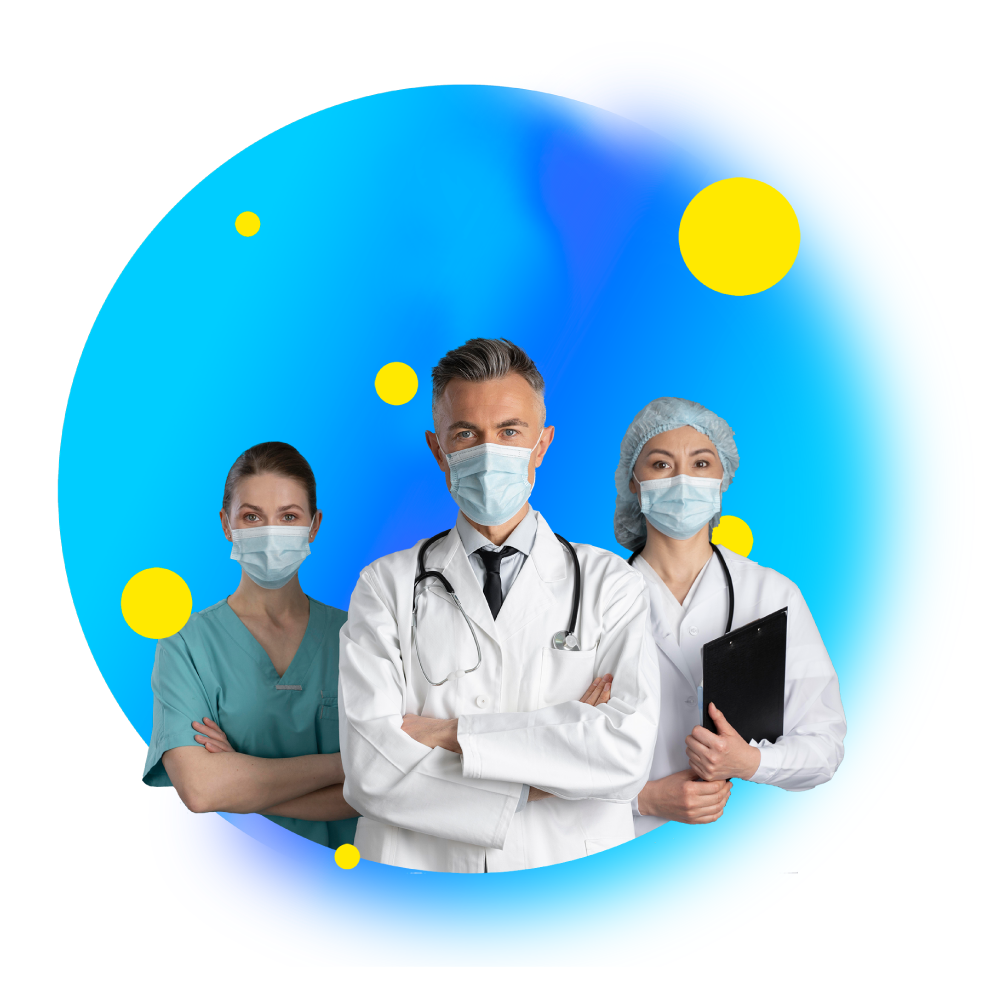
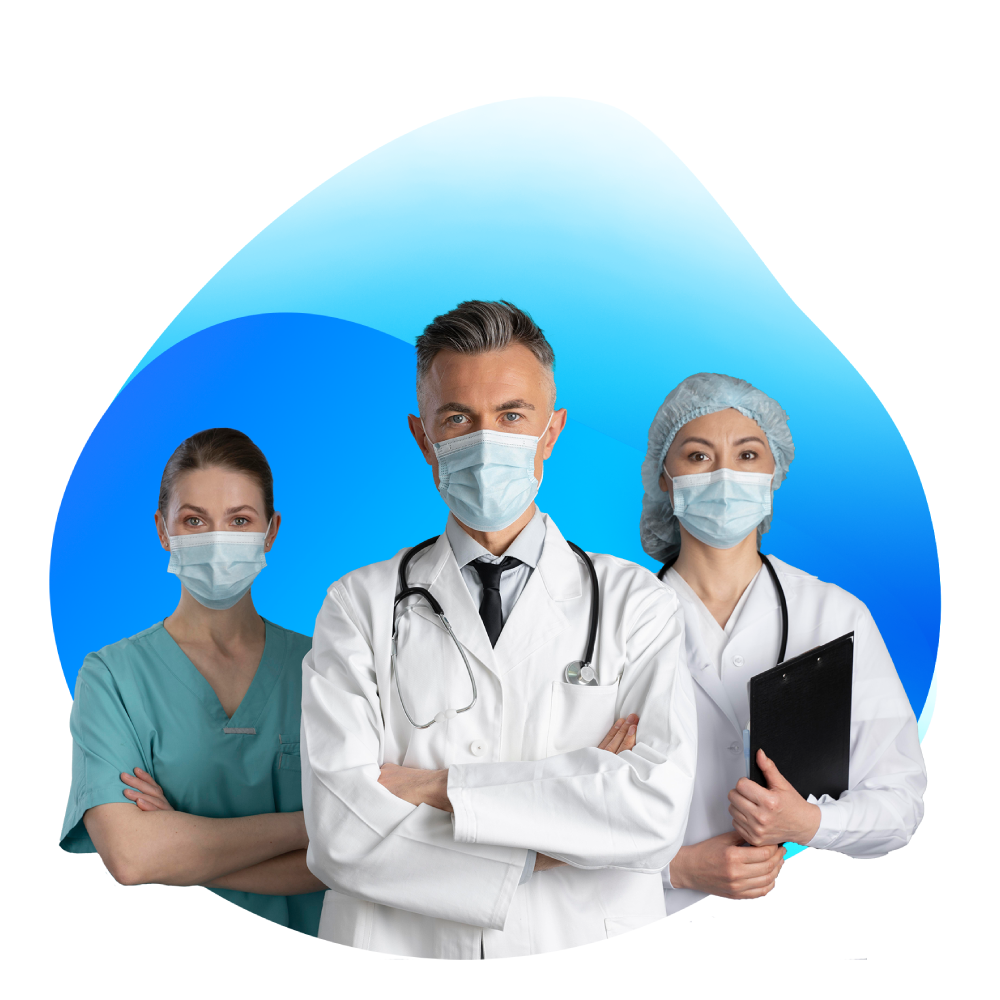
working en arreglar detalles esteticos

diff --git a/labuenafeweb/src/App.jsx b/labuenafeweb/src/App.jsx
@@ -11,6 +11,8 @@ import InsuranceSection from './components/InsuranceSection'
 import BlogSection from './components/BlogSection'
 import Services from './components/Services'
 import Contact from './components/Contact'
+import ImgSpacer from './components/ImgSpacer'
+import bgspacer from "./assets/img/bg-spacer-1.png"
 
 const posts = [
   {
@@ -40,15 +42,21 @@ function App() {
   
 
   return (
-    <div className='px-16 lg:px-40 bg-cyan-50'>
+    <div className=' '>
+      <div className="px-16 lg:px-40">
       <Navbar/>
       <HomeSection/>
-      <AboutSection/>
+      </div>
+      <div className="my-20"></div>
+   <ImgSpacer imageUrl={bgspacer} text="La Salud, Nuestro Deber" />
+      <div className="px-16 lg:px-40">
       <TeleHealth/>
+      <Services/>
       <InsuranceSection/>
       <BlogSection posts={posts}/>
-      <Services/>
+      <AboutSection/>
       <Contact/>
+      </div>
     </div>
   )
 }

diff --git a/labuenafeweb/src/components/ImgSpacer.jsx b/labuenafeweb/src/components/ImgSpacer.jsx
@@ -1,0 +1,20 @@
+import React from "react";
+
+const ImgSpacer = () => {
+  return (
+    // <section
+    //   className=" hidden md:block relative h-[500px] w-full bg-cover bg-center "
+    //   style={{ backgroundImage: `url(${imageUrl})` }}
+    // >
+    //   <div className="absolute bottom-4 left-1/2 transform -translate-x-1/2">
+       
+    //   </div>
+    // </section>
+    <div className=" w-screen h-96 ">
+        <svg className="w-screen h-auto object-cover" xmlns="http://www.w3.org/2000/svg" viewBox="0 0 1440 320"><path fill="#0062FF" fillOpacity="1" d="M0,32L60,48C120,64,240,96,360,122.7C480,149,600,171,720,176C840,181,960,171,1080,144C1200,117,1320,75,1380,53.3L1440,32L1440,320L1380,320C1320,320,1200,320,1080,320C960,320,840,320,720,320C600,320,480,320,360,320C240,320,120,320,60,320L0,320Z"></path></svg>
+       
+    </div>
+  );
+};
+
+export default ImgSpacer;

diff --git a/labuenafeweb/src/components/Navbar.jsx b/labuenafeweb/src/components/Navbar.jsx
@@ -38,7 +38,7 @@ export default function Example() {
         <div className="flex lg:flex-1">
           <a href="#" className="-m-1.5 p-1.5">
             <span className="sr-only">Your Company</span>
-            <img className="h-10 w-auto" src={logo} alt="" />
+            <img className="h-20 w-auto" src={logo} alt="" />
           </a>
         </div>
         <div className="flex lg:hidden">
@@ -123,7 +123,7 @@ export default function Example() {
           <div className="flex items-center justify-between">
             <a href="#" className="-m-1.5 p-1.5">
               <span className="sr-only">Clinica Familiar La Buena Fe</span>
-              <img className="h-10 w-auto" src={logo} alt="CLinica Logo" />
+              <img className="h-16" src={logo} alt="CLinica Logo" />
             </a>
             <button
               type="button"

diff --git a/labuenafeweb/src/components/Contact.jsx b/labuenafeweb/src/components/Contact.jsx
@@ -196,7 +196,7 @@ export default function Contact() {
             <button
               disabled={state.submitting}
               type="submit"
-              className="block w-full rounded-md bg-darkblue px-3.5 py-2.5 text-center text-sm font-semibold text-white shadow-sm hover:bg-lightblue focus-visible:outline focus-visible:outline-2 focus-visible:outline-offset-2 focus-visible:outline-indigo-600"
+              className="block w-full shadow-xl shadow-blue-200 rounded-full bg-darkblue px-3.5 py-2.5 text-center text-sm font-semibold text-white  hover:bg-lightblue focus-visible:outline focus-visible:outline-2 focus-visible:outline-offset-2 focus-visible:outline-indigo-600"
             >
               Let's talk
             </button>

diff --git a/labuenafeweb/src/components/ButtonOut.jsx b/labuenafeweb/src/components/ButtonOut.jsx
@@ -6,7 +6,7 @@ const ButtonOut = ({ text, url }) => {
     // Boton relleno generico
     <a
       href={url}
-      className="rounded-full text-darkblue px-3.5 py-2.5 text-sm  font-poppins-600 shadow-sm border-darkblue border-2 hover:font-poppins-800 focus-visible:outline focus-visible:outline-2 focus-visible:outline-offset-2 focus-visible:outline-white"
+      className="rounded-full shadow-xl shadow-blue-200 text-darkblue px-3.5 py-2.5 text-sm  font-poppins-600  border-darkblue border-2 hover:font-poppins-800 focus-visible:outline focus-visible:outline-2 focus-visible:outline-offset-2 focus-visible:outline-white"
     >
       
       {text}

diff --git a/labuenafeweb/src/components/ButtonFill.jsx b/labuenafeweb/src/components/ButtonFill.jsx
@@ -5,7 +5,7 @@ const ButtonFill = ({ text, url }) => {
     // Boton relleno generico
     <a
       href={url}
-      className="rounded-full  bg-yellow text-darkblue px-3.5 py-2.5 text-sm  font-poppins-600 shadow-sm hover:bg-yellow100 focus-visible:outline focus-visible:outline-2 focus-visible:outline-offset-2 focus-visible:outline-white"
+      className="rounded-full shadow-xl shadow-blue-200 bg-darkblue text-white px-3.5 py-2.5 text-sm  font-poppins-600  hover:bg-yellow hover:text-darkblue focus-visible:outline focus-visible:outline-2 focus-visible:outline-offset-2 focus-visible:outline-white"
     >
       {text}
     </a>

diff --git a/labuenafeweb/src/components/TeleHealth.jsx b/labuenafeweb/src/components/TeleHealth.jsx
@@ -7,7 +7,7 @@ import ButtonFill from "./ButtonFill";
 
 const TeleHealth = () => {
   return (
-    <section className=" bg-gradient-to-b from-white to-cyan-300 rounded-xl shadow-xl shadow-cyan-100 mt-16 flex flex-col gap-10 p-16 items-center">
+    <section className="rounded-xl  mt-16 flex flex-col gap-10 p-16 items-center">
       <Title title="¡Desde Tu Casa!" subtitle="Consulta" />
       <div className="flex lg:flex-row items-center">
         <img src={conecta} alt="Paciente con telefono" className="w-1/2" />

diff --git a/labuenafeweb/src/components/HomeSection.jsx b/labuenafeweb/src/components/HomeSection.jsx
@@ -27,7 +27,7 @@ const HomeSection = () => {
         <div className="flex gap-5 items-center">
           <ButtonFill text="Haz una Cita" url="#" />
           <ButtonFill text="Llamanos" url="tel:+14695864574" />
-          <span className="font-poppins-400 italic text-lightblue text-xs">
+          <span className="font-poppins-400 italic text-yellow text-xs">
             Ponte en contacto con nosotros
           </span>
         </div>

diff --git a/labuenafeweb/tailwind.config.js b/labuenafeweb/tailwind.config.js
@@ -9,7 +9,7 @@ export default {
   theme: {
     extend: {
       colors:{
-        darkblue: "#001A80",
+        darkblue: "#0062FF",
         lightblue: "#00CDFF",
         yellow: "#FFE800",
         yellow100: "#FFDA73"
